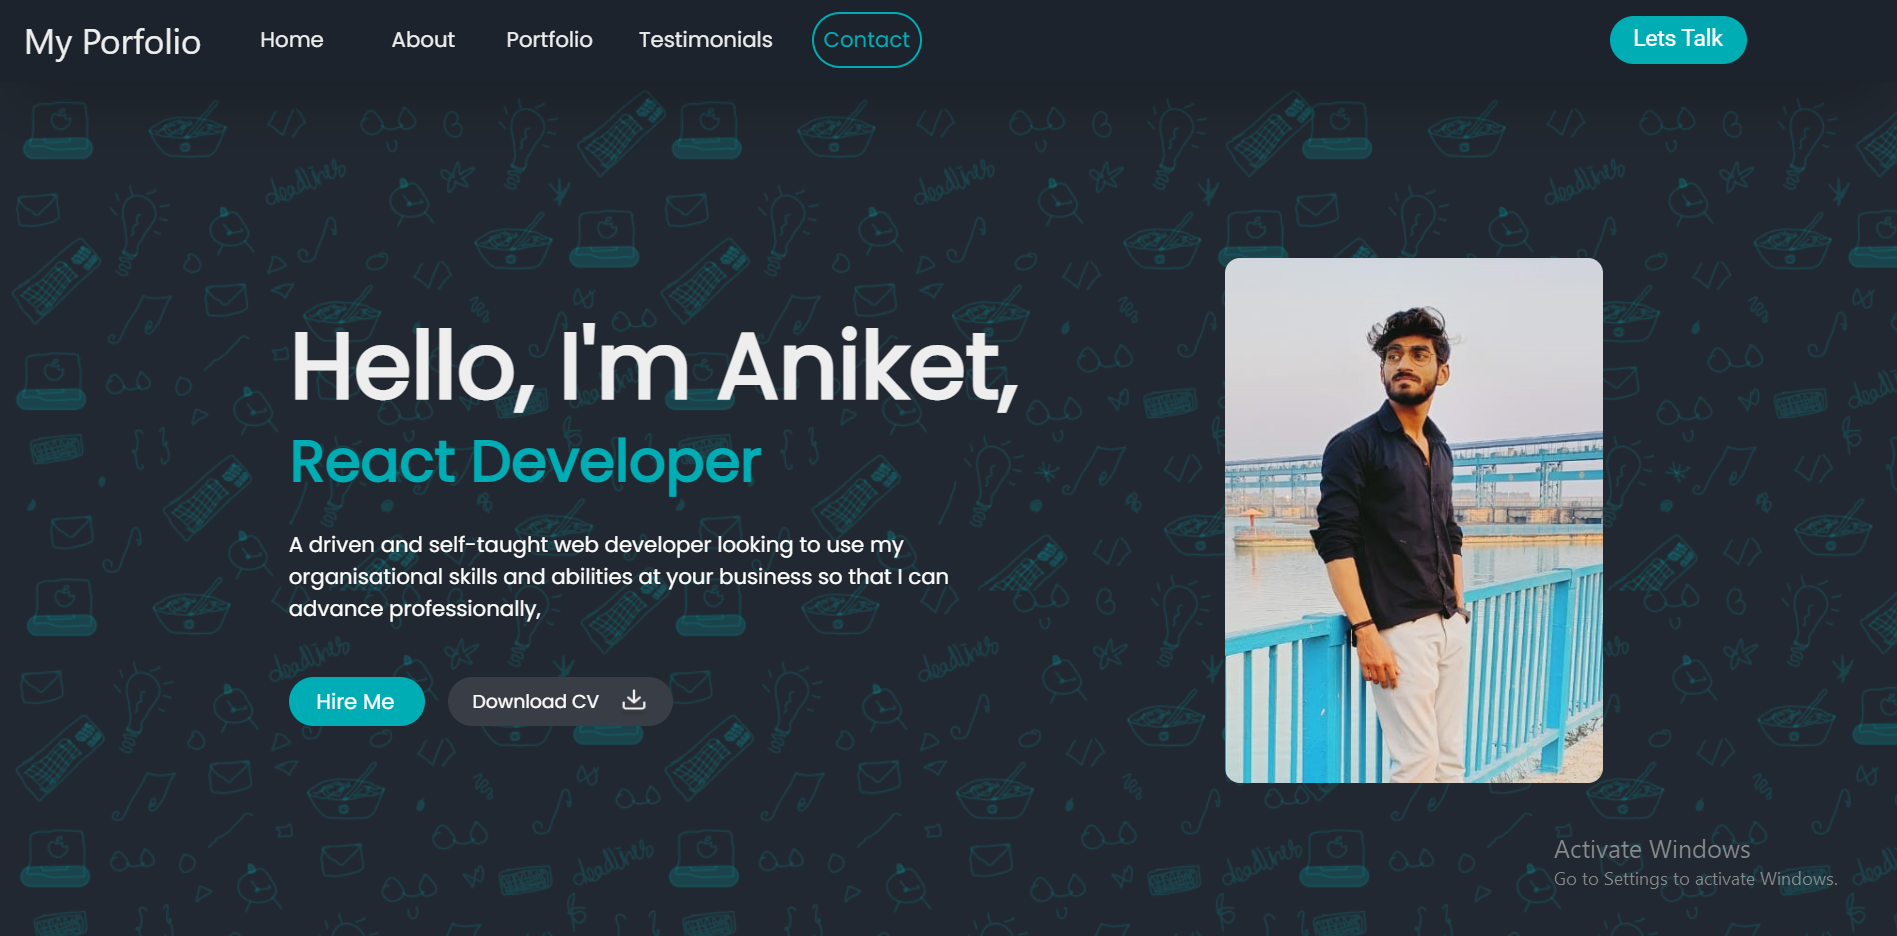
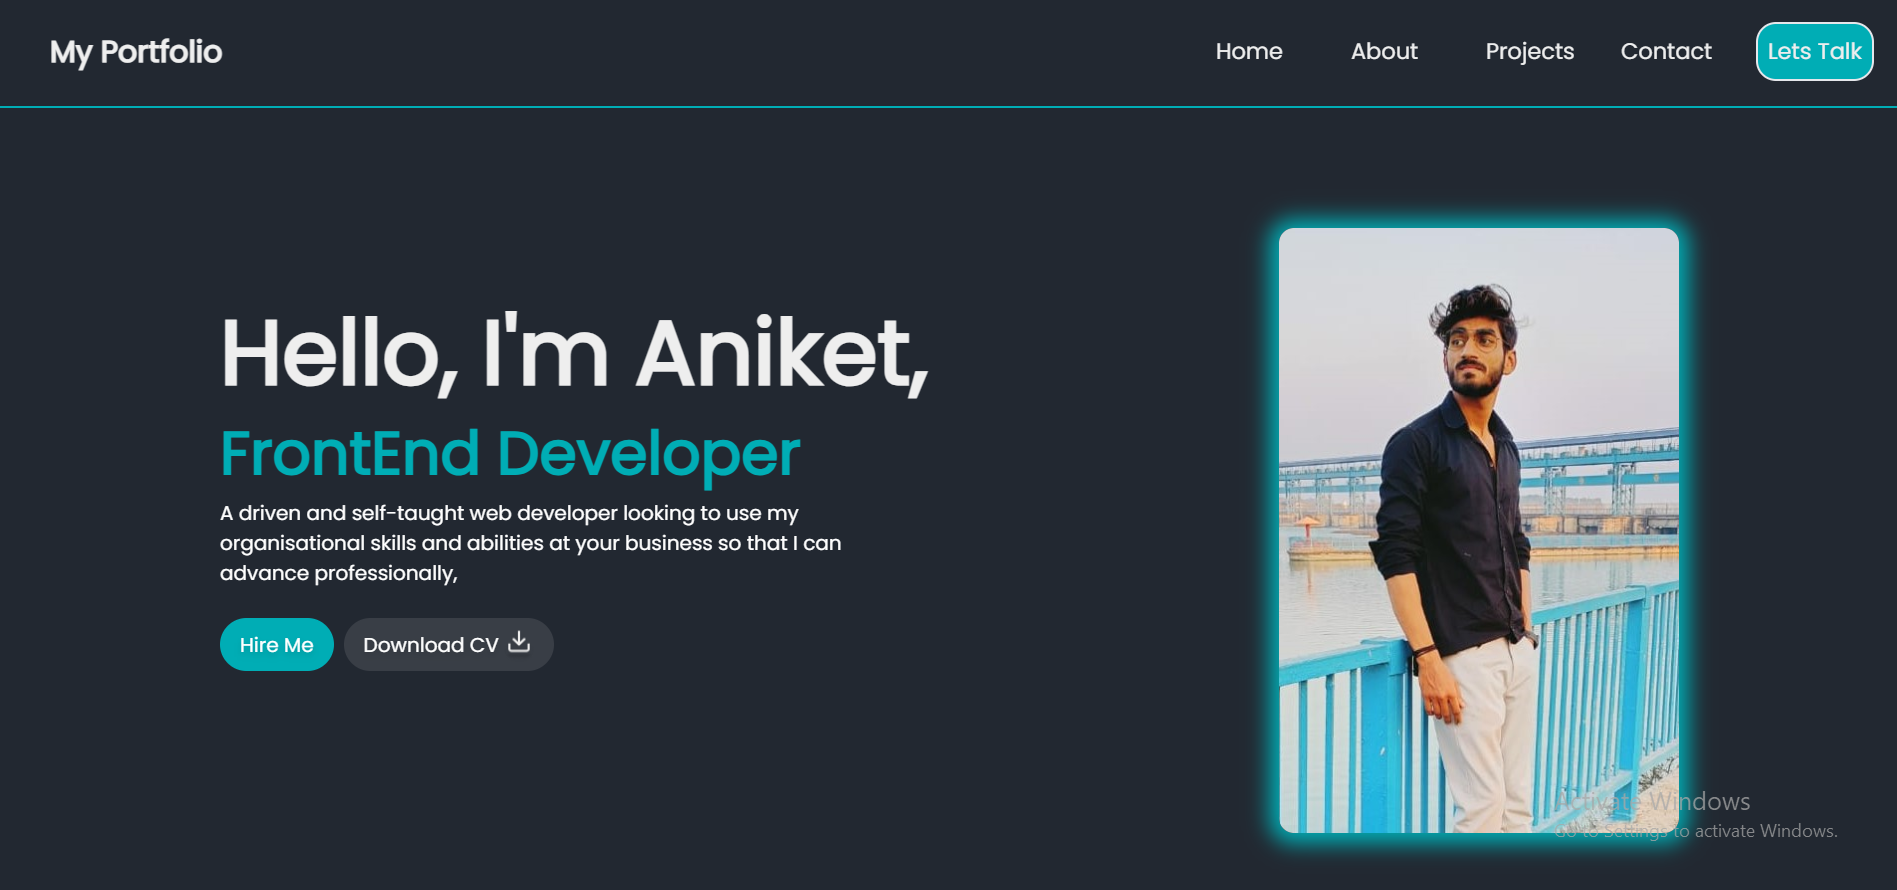
Project Section complete

diff --git a/app/components/Projects.js b/app/components/Projects.js
@@ -1,0 +1,131 @@
+'use client'
+import React, { useState, useRef, useEffect } from 'react'
+import ProjectCard from './ProjectCard';
+
+function Projects() {
+
+    const [all, setAll] = useState(false)
+    const [react, setReact] = useState(true)
+    const [next, setNext] = useState(true)
+    const [js, setJs] = useState(true)
+
+    const myStyle = {
+        backgroundImage: "url(Projects.png)",
+        backgroundSize: "cover",
+        backgroundRepeat: "no-repeat",
+    };
+    const ref = useRef()
+    const ref1 = useRef();
+    const ref2 = useRef();
+    const ref3 = useRef();
+
+    const handleAll = () => {
+        setAll(false)
+        setReact(true)
+        setNext(true)
+        setJs(true)
+
+        ref.current.style.backgroundColor = 'black';
+        ref1.current.style.backgroundColor = 'transparent';
+        ref2.current.style.backgroundColor = 'transparent';
+        ref3.current.style.backgroundColor = 'transparent';
+
+    }
+    const handleReact = () => {
+        setAll(true)
+        setReact(false)
+        setNext(true)
+        setJs(true)
+
+        ref1.current.style.backgroundColor = 'black';
+        ref.current.style.backgroundColor = 'transparent';
+        ref2.current.style.backgroundColor = 'transparent';
+        ref3.current.style.backgroundColor = 'transparent';
+    }
+    const handleNext = () => {
+        setAll(true)
+        setReact(true)
+        setNext(false)
+        setJs(true)
+
+        ref2.current.style.backgroundColor = 'black';
+        ref1.current.style.backgroundColor = 'transparent';
+        ref.current.style.backgroundColor = 'transparent';
+        ref3.current.style.backgroundColor = 'transparent';
+    }
+    const handleJs = () => {
+        setAll(true)
+        setReact(true)
+        setNext(true)
+        setJs(false)
+
+        ref3.current.style.backgroundColor = 'black';
+        ref1.current.style.backgroundColor = 'transparent';
+        ref2.current.style.backgroundColor = 'transparent';
+        ref.current.style.backgroundColor = 'transparent';
+    }
+
+
+    return (
+        <div className=" flex flex-col h-fit mt-36 lg:mt-24 mb-36 pb-24" style={myStyle}>
+            <div>
+                <div className='flex gap-4 m-20 sm:m-16 lg:justify-center'>
+                    <h1 className='text-6xl font-semibold text-[#EEEEEE] sm:text-4xl font-[Roboto]'>My</h1>
+                    <h1 className='text-6xl font-semibold text-[#00ADB5] sm:text-4xl font-[Roboto]'>Projects</h1>
+                </div>
+                <div >
+                    <ul className='flex gap-10 sm:gap-3 ml-24 lg:justify-center lg:ml-0'>
+                        <li className='text-base font-medium px-5 p-1 shadow-inner shadow-[#00ADB5] font-[Roboto] text-[#EEEEEE] sm:text-xs xxs:text-[9px] backdrop-blur-lg rounded-2xl hover:cursor-pointer bg-black' ref={ref} onClick={handleAll} >All</li>
+                        <li className='text-base font-medium px-5 p-1 shadow-inner shadow-[#00ADB5] font-[Roboto] text-[#EEEEEE] sm:text-xs xxs:text-[9px] bg-[#393E46] backdrop-blur-lg rounded-2xl hover:cursor-pointer' ref={ref1} onClick={handleReact} >React Js</li>
+                        <li className='text-base font-medium px-5 p-1 shadow-inner shadow-[#00ADB5] font-[Roboto] text-[#EEEEEE] sm:text-xs xxs:text-[9px] bg-[#393E46] backdrop-blur-lg rounded-2xl hover:cursor-pointer' ref={ref2} onClick={handleNext} >Next Js</li>
+                        <li className='text-base font-medium px-5 p-1 shadow-inner shadow-[#00ADB5] font-[Roboto] text-[#EEEEEE] sm:text-xs xxs:text-[9px] bg-[#393E46] backdrop-blur-lg rounded-2xl hover:cursor-pointer' ref={ref3} onClick={handleJs} >Javascript</li>
+                    </ul>
+                </div>
+
+                <div>
+                    <div>
+                        {all ? "" : (
+                            <div className='flex flex-wrap mt-9 sm:ml-0 sm:justify-center ml-40'>
+                                <ProjectCard image="portfolio.png" git="" launch="" name="My Portfolio" topic="Website" description="You are now browsing my portfolio page, which contains all of my personal data.I utilised the Next js javascript framework, the Tailwind CSS framework, and basic html in my project." />
+                                <ProjectCard image="Hotel.png" git="https://github.com/aniketcoddy/Hotel_Booking.git" launch="https://anikethotelbooking.netlify.app/" name="Hotel Booking" topic="Booking" description="You may use this hotel website to add the room of your choice to the shopping cart and complete the transaction.I utilised the Reactjs ,Redux javascript libraries , the Tailwind CSS framework, and basic html in my project. " />
+                                <ProjectCard image="Weather.png" git="https://github.com/aniketcoddy/Weather_App_React.git" launch="https://weatherinfoappreact.netlify.app/" name="Weather Forcast" topic="Weather App" description="This weather app provides accurate global weather information, including temperature, humidity, wind speed, and other factors.I utilised the Reactjs javascript libraries , the Tailwind CSS framework, and open source API." />
+                                <ProjectCard image="countdown.png" git="https://github.com/aniketcoddy/countdownTimer.git" launch="https://aniketcountdowntimer.netlify.app/" name="Countdown Page" topic="Reverse Timer" description="This page simply serves as a landing page with a timer counting down until the course discount expires." />
+                                <ProjectCard image="NextTOdo.png" git="https://github.com/aniketcoddy/Aniket_Vsihnoi_TODO_NextJs.git" launch="https://aniket-todo-nextjs.netlify.app/" name="Task Organizer" topic="ToDo list" description="This advance task manager allows you to record your daily to-dos and delete or update them as soon as they are completed.I utilised the Next js javascript framework, the Tailwind CSS framework, and Local Storage" />
+                                <ProjectCard image="login.png" git="https://github.com/aniketcoddy/-Firebase_authentication.git" launch="https://aniketfirebaseauthen.netlify.app/" name="Authentication" topic="Firebase Authentication" description="We may register and log in using Google Firebase as our backend database in this login form.I utilised the ReactJs javascript library, the Tailwind CSS framework,and Google firebase" />
+                                <ProjectCard image="login (2).png" git="https://github.com/aniketcoddy/Form-Validation-.git" launch="https://form-validationsite.netlify.app/" name="Login/Signup" topic="Authentication" description="This is a simple registration form that ensures accurate entering of information after being run using regular expression.Tech used is ES6 Javascript, vanila Css and HTML5" />
+                                <ProjectCard image="calc.png" git="https://github.com/aniketcoddy/Calculator_React.git" launch="https://calculatorbyaniket.netlify.app/" name="Calculator" topic="simple calculator" description="Simple calculator build just to sharpen my logical skills. Tech used React Js and tailwind css" />
+                                <ProjectCard image="Password.png" git="https://github.com/aniketcoddy/Password-Generator.git" launch="https://automatic-password-generator.netlify.app/" name="Password Generator" topic="generator" description="A generally used password generator that we used while working in login forms to generate a strong passwords" />
+                            </div>
+                        )}
+
+                        {react ? "" : (
+                            <div className='flex flex-wrap mt-9 sm:ml-0 sm:justify-center ml-40'>
+                                <ProjectCard image="Hotel.png" git="https://github.com/aniketcoddy/Hotel_Booking.git" launch="https://anikethotelbooking.netlify.app/" name="Hotel Booking" topic="Booking" description="You may use this hotel website to add the room of your choice to the shopping cart and complete the transaction.I utilised the Reactjs ,Redux javascript libraries , the Tailwind CSS framework, and basic html in my project. " />
+                                <ProjectCard image="Weather.png" git="https://github.com/aniketcoddy/Weather_App_React.git" launch="https://weatherinfoappreact.netlify.app/" name="Weather Forcast" topic="Weather App" description="This weather app provides accurate global weather information, including temperature, humidity, wind speed, and other factors.I utilised the Reactjs javascript libraries , the Tailwind CSS framework, and open source API." />
+                                <ProjectCard image="countdown.png" git="https://github.com/aniketcoddy/countdownTimer.git" launch="https://aniketcountdowntimer.netlify.app/" name="Countdown Page" topic="Reverse Timer" description="This page simply serves as a landing page with a timer counting down until the course discount expires." />
+                                <ProjectCard image="login.png" git="https://github.com/aniketcoddy/-Firebase_authentication.git" launch="https://aniketfirebaseauthen.netlify.app/" name="Authentication" topic="Firebase Authentication" description="We may register and log in using Google Firebase as our backend database in this login form.I utilised the ReactJs javascript library, the Tailwind CSS framework,and Google firebase" />
+                            </div>
+                        )}
+
+                        {next ? "" : (
+                            <div className='flex flex-wrap mt-9 sm:ml-0 sm:justify-center ml-40'>
+                                <ProjectCard image="portfolio.png" git="" launch="" name="My Portfolio" topic="Website" description="You are now browsing my portfolio page, which contains all of my personal data.I utilised the Next js javascript framework, the Tailwind CSS framework, and basic html in my project." />
+                                <ProjectCard image="NextTOdo.png" git="https://github.com/aniketcoddy/Aniket_Vsihnoi_TODO_NextJs.git" launch="https://aniket-todo-nextjs.netlify.app/" name="Task Organizer" topic="ToDo list" description="This advance task manager allows you to record your daily to-dos and delete or update them as soon as they are completed.I utilised the Next js javascript framework, the Tailwind CSS framework, and Local Storage" />
+                            </div>
+                        )}
+
+                        {js ? "" : (
+                            <div className='flex flex-wrap mt-9 sm:ml-0 sm:justify-center ml-40'>
+                                <ProjectCard image="login (2).png" git="https://github.com/aniketcoddy/Form-Validation-.git" launch="https://form-validationsite.netlify.app/" name="Login/Signup" topic="Authentication" description="This is a simple registration form that ensures accurate entering of information after being run using regular expression.Tech used is ES6 Javascript, vanila Css and HTML5" />
+                                <ProjectCard image="calc.png" git="https://github.com/aniketcoddy/Calculator_React.git" launch="https://calculatorbyaniket.netlify.app/" name="Calculator" topic="simple calculator" description="Simple calculator build just to sharpen my logical skills. Tech used React Js and tailwind css" />
+                                <ProjectCard image="Password.png" git="https://github.com/aniketcoddy/Password-Generator.git" launch="https://automatic-password-generator.netlify.app/" name="Password Generator" topic="generator" description="A generally used password generator that we used while working in login forms to generate a strong passwords" />
+                            </div>
+                        )}
+                    </div>
+                </div>
+            </div>
+        </div>
+    )
+}
+
+export default Projects

diff --git a/app/components/Navbar.js b/app/components/Navbar.js
@@ -1,22 +1,41 @@
 'use client'
-import React from 'react'
+import React , {useState} from 'react'
+import Menu from './Menu'
 
 function Navbar() {
 
+    const [menu , setMenu] = useState(true)
+
+    const handleOnClick=()=>{
+        setMenu((prevState) => !prevState)
+    }
 
     return (
-        <div className='flex justify-between m-0 border-b-2 border-[#00ADB5] p-5'>
-            <div className='flex justify-center items-center'>
-                <ul className='flex justify-center items-center'>
-                    <li className='ml-5 text-[#EEEEEE] text-2xl font-[Poppins] font-semibold'>My Portfolio</li>
-                    <li className='ml-16 text-[#EEEEEE] text-lg hover:text-xl w-11 font-[Poppins]'>Home</li>
-                    <li className='ml-16 text-[#EEEEEE] text-lg hover:text-xl font-[Poppins] w-11'>About</li>
-                    <li className='ml-16 text-[#EEEEEE] text-lg hover:text-xl font-[Poppins] w-11'>Projects</li>
-                    <li className='ml-16 text-[#EEEEEE] text-lg hover:text-xl font-[Poppins] w-11'>Contact</li>
-                </ul>
+        <div>
+            <div className='flex justify-between items-center m-0 border-b-2 z-10 border-[#00ADB5] p-5'>
+                <div>
+                    <h1 className='ml-5 text-[#EEEEEE] text-2xl font-[Poppins] font-semibold'>My Portfolio</h1>
+                </div>
+
+                <div className=' flex lg:hidden'>
+                    <div className='flex items-center'>
+                        <ul className='flex'>
+                            <li className='ml-16 text-[#EEEEEE] text-lg hover:text-xl w-11 font-[Poppins]'>Home</li>
+                            <li className='ml-16 text-[#EEEEEE] text-lg hover:text-xl font-[Poppins] w-11'>About</li>
+                            <li className='ml-16 text-[#EEEEEE] text-lg hover:text-xl font-[Poppins] w-11'>Projects</li>
+                            <li className='ml-16 text-[#EEEEEE] text-lg hover:text-xl font-[Poppins] w-11'>Contact</li>
+                        </ul>
+                    </div>
+                    <div className='flex'>
+                        <a className='ml-16 text-[#EEEEEE] text-lg font-[Poppins] border-2 p-2 rounded-2xl bg-[#00ADB5]'>Lets Talk</a>
+                    </div>
+                </div>
+                <div className='hidden lg:block'>
+                    <img src="menu-line.png" className='w-7' onClick={handleOnClick} />
+                </div>
             </div>
-            <div className='flex'>
-                <a className='ml-16 text-[#EEEEEE] text-lg font-[Poppins] border-2 p-2 rounded-2xl bg-[#00ADB5]'>Lets Talk</a>
+            <div>
+                <Menu menu={menu}/>
             </div>
         </div>
     )

diff --git a/app/components/ProjectCard.js b/app/components/ProjectCard.js
@@ -1,0 +1,22 @@
+import React from 'react'
+
+function ProjectCard({image,git,launch,name,topic,description}) {
+  return (
+    <div className='flex m-1'>
+      <div className=' p-2 xs:p-1 bg-[rgba(57,62,70,0.5)] backdrop-blur-sm '>
+        <img src={image} className='w-36 xs:w-24 xxs:w-20'/>
+        <div className='flex'>
+       <a href={git}  className='flex justify-center items-center'><h1 className='text-sm xs:text-xs xxs:text-[9px] xs:m-1  xs:mt-3 font-[Roboto] text-[#000000] border-[#00ADB5] bg-[#00ADB5] m-2 border-2  px-1 rounded-lg font-semibold'>Git</h1></a>
+       <a href={launch} target="_blank" className='flex justify-center items-center'><h1 className='text-sm xs:text-xs xxs:text-[9px] xs:m-1  xs:mt-3 font-[Roboto] text-[#000000] border-[#00ADB5] bg-[#00ADB5] m-2 border-2  px-1 rounded-lg font-semibold'>Launch</h1></a>
+        </div>
+      </div>
+
+      <div className=' backdrop-blur-sm bg-[rgba(57,62,70,0.5)] p-2 xxs:p-1'>
+         <h1 className='text-xl xs:text-lg xxs:text-base font-[Roboto] font-medium text-[#EEEEEE]'>{name}</h1>
+         <h1 className='lg:text-[10px] xxs:text-[9px] text-xs  py-1 font-[Roboto] font-medium text-[#EEEEEE]'>{topic}</h1>
+         <h1 className='lg:text-[10px] xxs:text-[9px] text-xs  w-56 font-[Roboto] font-medium text-[#EEEEEE]'>{description}</h1>
+      </div>
+    </div>
+  )
+}
+export default ProjectCard

diff --git a/app/components/Menu.js b/app/components/Menu.js
@@ -1,0 +1,22 @@
+import React from 'react'
+
+function Menu({menu}) {
+    return (
+        <div >
+            
+            <div>
+            
+                <ul className={`flex flex-col absolute mr-96 ${menu ? '-top-96': 'top-[74px]'} transition-all duration-[1s] shadow-2xl shadow-[#00ADB5] bg-[#1b2129]  w-full`}>
+                   <a className='hover:bg-[#00ADB5] hover:cursor-pointer'><li className='text-[#EEEEEE]  hover:text-[#1b2128] text-lg p-3 ml-7 w-11 font-[Poppins]'>Home</li></a>
+                   <a className='hover:bg-[#00ADB5] hover:cursor-pointer'><li className='text-[#EEEEEE]  hover:text-[#1b2128] text-lg p-3 ml-7 font-[Poppins] w-11'>About</li></a>
+                   <a className='hover:bg-[#00ADB5] hover:cursor-pointer'><li className='text-[#EEEEEE]  hover:text-[#1b2128] text-lg p-3 ml-7 font-[Poppins] w-11'>Projects</li></a>
+                   <a className='hover:bg-[#00ADB5] hover:cursor-pointer'><li className='text-[#EEEEEE]  hover:text-[#1b2128] text-lg p-3 ml-7 font-[Poppins] w-11'>Contact</li></a>
+                </ul>
+
+            </div>
+            
+        </div>
+    )
+}
+
+export default Menu

diff --git a/app/layout.js b/app/layout.js
@@ -1,5 +1,6 @@
 
 import Navbar from './components/Navbar'
+import Projects from './components/Projects'
 import './globals.css'
 import { Inter } from 'next/font/google'
 
@@ -17,6 +18,7 @@ export default function RootLayout({ children }) {
         <div>
           <Navbar />
           <div className={inter.className}>{children}</div>
+          <Projects/>
         </div>
       </body>
     </html>

diff --git a/app/page.js b/app/page.js
@@ -2,12 +2,6 @@
 
 export default function Home() {
 
-  const myStyle = {
-    backgroundImage: "url(/Projects.png)",
-    backgroundSize: "cover",
-    backgroundRepeat: "no-repeat",
-  };
-
   return (
     <div  className="flex lg:flex-col justify-between lg:justify-center lg:items-center" >
       <div className="mt-40 lg:mt-20 ml-44 xl:ml-32 lg:ml-0 lg:justify-center lg:items-center">
